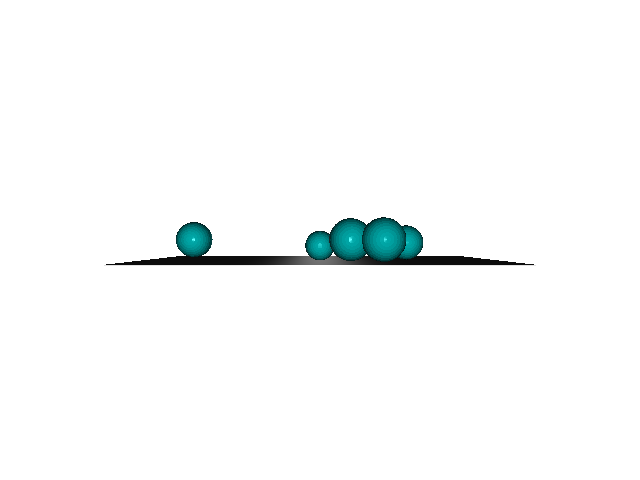
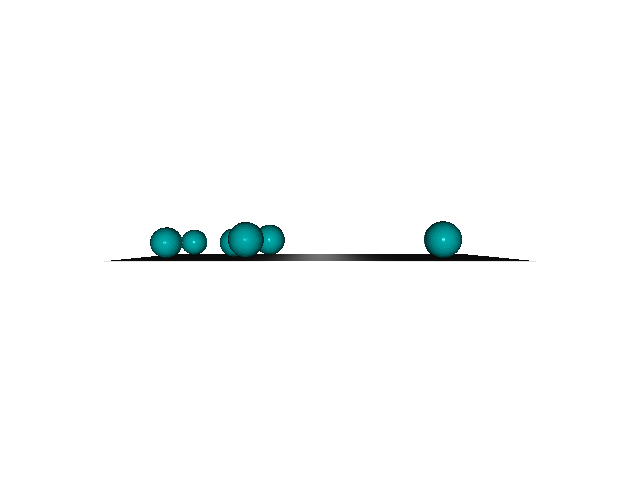
m

Changed region(s): [[0.1562, 0.4375, 0.8438, 0.5625]]

diff --git a/CWII2324-v2.py b/CWII2324-v2.py
@@ -28,6 +28,33 @@ http://www.open3d.org/docs/latest/tutorial/Basic/visualization.html
 '''
 
 
+def compute_3d_location(K, R, T, points2D):
+    """
+  K is the camera matrix that includes the focal length and the optical center.
+  R and T are the rotation and translation of the camera.
+  points2D is the 2D point in the camera view.
+  """
+    # Convert the 2D point to homogeneous coordinates
+    points2D = np.array(points2D).reshape(-1, 1)
+    points2D_homogeneous = np.hstack((points2D, np.ones((points2D.shape[0], 1))))
+
+    # Compute the 3D location of the point in the camera view
+    points3D_camera = np.linalg.inv(K) @ points2D_homogeneous
+
+    # Compute the 3D location of the point in the world view
+    points3D_world = np.linalg.inv(R @ T) @ points3D_camera
+
+    return points3D_world
+
+
+def find_AB(pl, pr, R, T):
+    x = np.dot(np.transpose(R), pr)
+    b = (pl[1] * T[2] - T[1]) / (x[1] - x[2] * pl[1])
+    a = b * x[2] + T[2]
+
+    return a, b
+
+
 def findCircles(img, imageNumber):
     img_gray = cv2.cvtColor(img, cv2.COLOR_BGR2GRAY)
     img_gray = cv2.equalizeHist(img_gray)
@@ -156,7 +183,7 @@ if __name__ == '__main__':
             z = random.randrange(-w / 2 + 2, w / 2 - 2, step)
         prev_loc.append((x, z))
 
-        GT_cents.append(np.array([x, size, z, 1.]))
+        GT_cents.append(np.array([x, size, z, 1]))
         GT_rads.append(size)
         sph_H = np.array(
             [[1, 0, 0, x],
@@ -221,6 +248,7 @@ if __name__ == '__main__':
          [0, 0, 0, 1]]
     )
     H1_wc = np.matmul(H1_1, H1_0)
+
     render_list = [(H0_wc, 'view0.png', 'depth0.png'),
                    (H1_wc, 'view1.png', 'depth1.png')]
 
@@ -366,7 +394,7 @@ if __name__ == '__main__':
         color = (random.randint(100, 255), random.randint(100, 255), random.randint(100, 255))
         match0 = cv2.circle(img0_copy, (mc[0], mc[1]), 2, color, 3)
         match1 = cv2.circle(img1_copy, (c[0], c[1]), 2, color, 3)
-    print(match)
+
     cv2.imwrite("match0.png", match0)
     cv2.imwrite("match1.png", match1)
 
@@ -377,6 +405,69 @@ if __name__ == '__main__':
     Write your code here
     '''
     ###################################
+    """
+    print(GT_cents)
+
+    coordinates = []
+    for x, y in match:
+        coordinates.append(((x[0] - ox, x[1] - oy, 1), (y[0] - ox, y[1] - oy, 1)))
+
+    points3D = []
+
+    for left, right in coordinates:
+        left3D = np.linalg.inv(K.intrinsic_matrix) @ left
+        right3D = np.linalg.inv(K.intrinsic_matrix) @ right
+        R = H1_wc[:3, :3]
+        T = H1_wc[:3, 3]
+
+
+        a, b = find_AB(left3D, right3D, R, T)
+
+
+
+
+        proj1 = a * np.array(left)
+
+        proj2 = b * np.dot(np.transpose(R), right3D) + T
+
+
+
+
+        P = (proj1 + proj2) / 2
+
+
+
+        points3D.append(P)
+    print(points3D)"""
+    E = np.matmul(np.transpose(K.intrinsic_matrix), np.matmul(fundamental_matrix, K.intrinsic_matrix))
+
+    # Step 3: Decompose the essential matrix to obtain the relative camera pose
+    _, R, t, _ = cv2.recoverPose(E, points1, points2, K.intrinsic_matrix)
+    projection_matrix = np.array([
+        [2 * f / img_width, 0, 0, 0],
+        [0, 2 * f / img_height, 0, 0],
+        [0, 0, -1, 0]
+
+    ])
+    # Step 4: Compute the 3-D location of the sphere centers
+    sphere_centers_3d = []
+    for (circle_center0, circle_center1) in match:
+        # Convert the circle centers to homogeneous coordinates
+        circle_center0_homogeneous = np.array([circle_center0[0], circle_center0[1]])
+        circle_center1_homogeneous = np.array([circle_center1[0], circle_center1[1]])
+
+        # Triangulate the 3-D point using the relative camera pose
+        P0 = np.hstack((np.eye(3), np.zeros((3, 1))))
+        P1 = np.hstack((R, t))
+        sphere_center_3d_homogeneous = cv2.triangulatePoints( projection_matrix,  P1, circle_center0_homogeneous,circle_center1_homogeneous)
+        print(sphere_center_3d_homogeneous)
+        # Convert the 3-D point from homogeneous coordinates to Cartesian coordinates
+        sphere_center_3d_cartesian = sphere_center_3d_homogeneous[:3] / sphere_center_3d_homogeneous[3]
+
+        # Append the 3-D point to the list of sphere centers
+        sphere_centers_3d.append((sphere_center_3d_cartesian[0][0],sphere_center_3d_cartesian[1][0],1))
+    print(sphere_centers_3d)
+
 
     ###################################
     '''
@@ -386,6 +477,16 @@ if __name__ == '__main__':
     '''
     ###################################
 
+    pcd_est_cents = o3d.geometry.PointCloud()
+    pcd_est_cents.points = o3d.utility.Vector3dVector(np.array(sphere_centers_3d)[:, :3])
+    pcd_est_cents.paint_uniform_color([0., 0., 1.])
+    print(np.asarray(pcd_GTcents.points))
+    print(np.asarray(pcd_est_cents.points))
+    # Add the point clouds to the visualization
+
+
+
+    o3d.visualization.draw_geometries([pcd_GTcents, pcd_est_cents])
     ###################################
     '''
     Task 8: 3-D radius of spheres
